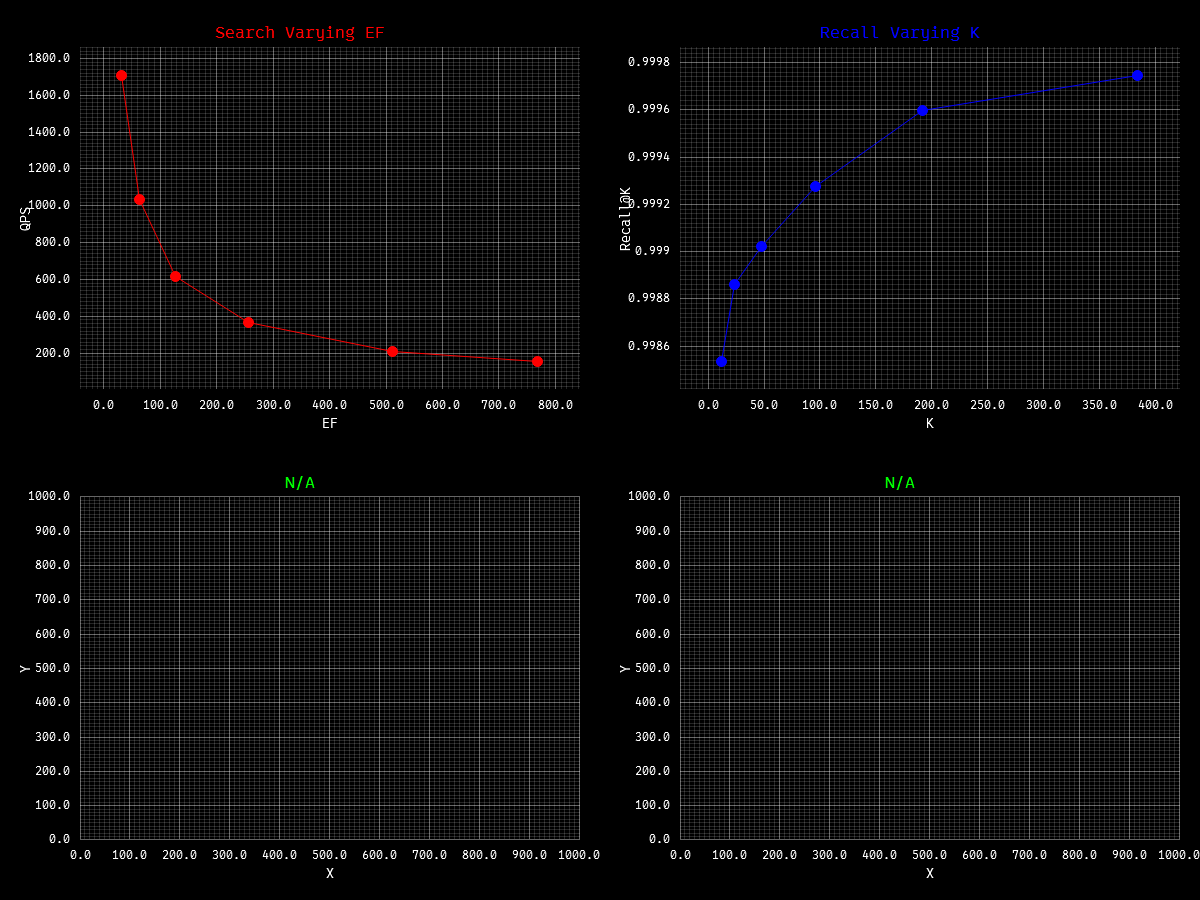
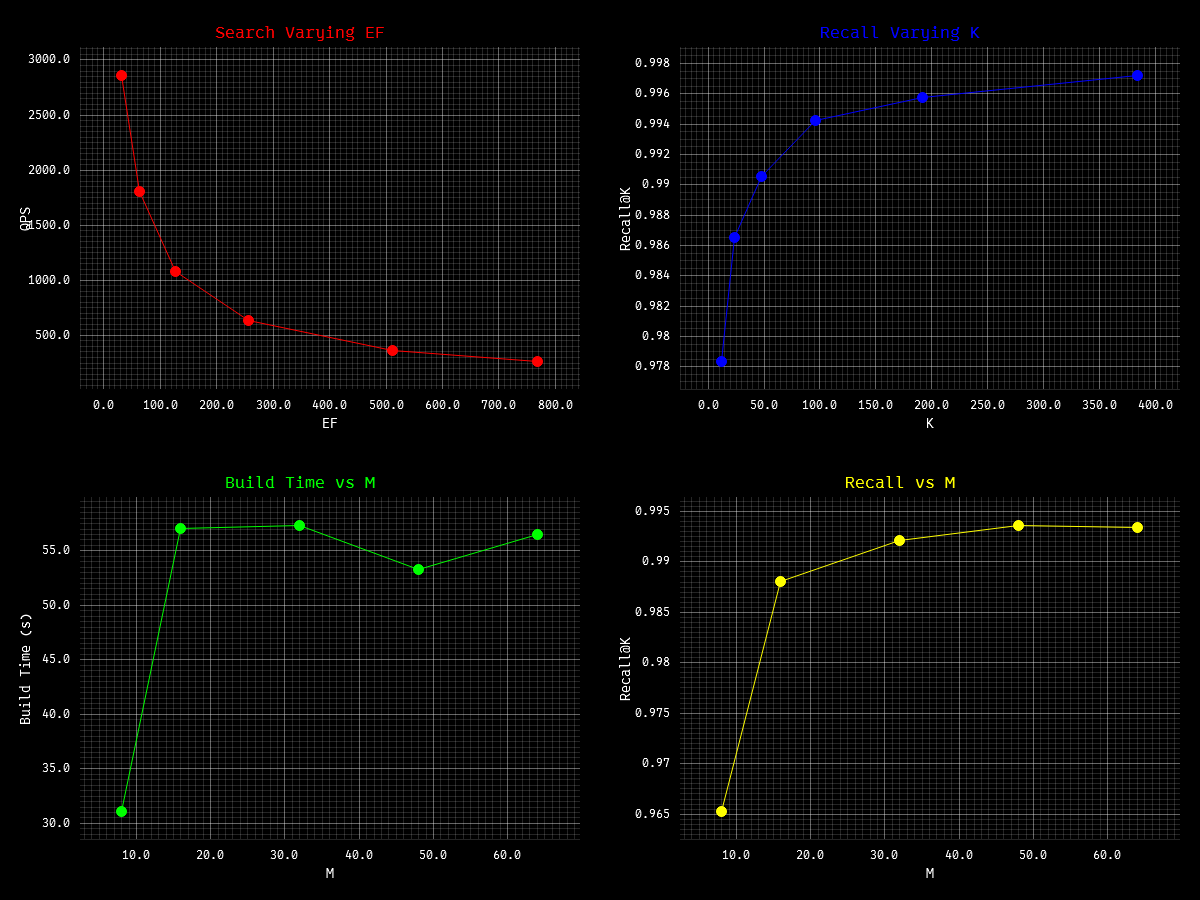
feat: added two bench, fix ci & toml

Changed region(s): [[0.0, 0.5289, 1.0, 0.9644], [0.0308, 0.0311, 0.4933, 0.4356], [0.5242, 0.0622, 0.9867, 0.4356]]

diff --git a/bench/bench.rs b/bench/bench.rs
@@ -15,6 +15,8 @@ const INDEX_CACHE: &str = "./bench/bench_index.bin";
 enum BenchMetrics {
     QRSVaryingEF,
     RecallVaryingK,
+    BuildTimeVaryingM,
+    RecallVaryingM,
 }
 
 struct BenchmarkResult {
@@ -133,6 +135,47 @@ fn main() -> Result<()> {
                 x_y: results.clone(),
             });
         }
+
+        // Build time and recall varying M
+        {
+            let sample_count = 65536;
+            let m_values = vec![8, 16, 32, 48, 64];
+            let mut build_results = Vec::new();
+            let mut recall_results = Vec::new();
+            let recall_sample = 1024;
+            let k = 32;
+            let ef = 128;
+            let mut rng2 = fastrand::Rng::new();
+            let queries_idx_m: Vec<_> = (0..recall_sample)
+                .map(|_| rng2.usize(0..sample_count))
+                .collect();
+
+            for &m in &m_values {
+                let (hnsw, elapsed) = build_index_with_m(m, sample_count, dim, &mut mmap);
+                println!("Build with M={}, time: {:?}", m, elapsed);
+                build_results.push((m as f64, elapsed.as_secs_f64()));
+
+                let mut total_recall = 0.0f32;
+                for &query_idx in &queries_idx_m {
+                    let query_vec = get_vector(&mut mmap, query_idx, dim);
+                    let hnsw_search = hnsw.search(query_vec, k, Some(ef));
+                    let brute_search = hnsw.brute_search(query_vec, k);
+                    total_recall += compare_recall_at_k(&hnsw_search, &brute_search, k);
+                }
+                let avg_recall = total_recall / recall_sample as f32;
+                println!("Recall@{} with M={}: {:.4}", k, m, avg_recall);
+                recall_results.push((m as f64, avg_recall as f64));
+            }
+
+            bench_results.push(BenchmarkResult {
+                metrics: BenchMetrics::BuildTimeVaryingM,
+                x_y: build_results,
+            });
+            bench_results.push(BenchmarkResult {
+                metrics: BenchMetrics::RecallVaryingM,
+                x_y: recall_results,
+            });
+        }
     }
 
     plot_bench(bench_results, PathBuf::from("./bench/plot.png"))?;
@@ -227,7 +270,7 @@ fn write_compact_datasets(input: PathBuf, num_files: usize) -> Result<()> {
     Ok(())
 }
 
-#[inline]
+#[inline(always)]
 /// Calculate Recall@K - what fraction of HNSW results are in the true top-k (brute force)
 fn compare_recall_at_k(
     hnsw_results: &[(NodeUUID, f32)],
@@ -271,14 +314,41 @@ fn load_vectors_mmap(path: PathBuf) -> (usize, usize, MmapMut) {
     (num_vectors, dim, mmap)
 }
 
+fn build_index_with_m(
+    m: usize,
+    num_vectors: usize,
+    dim: usize,
+    mmap: &mut MmapMut,
+) -> (HNSW, std::time::Duration) {
+    let mut hnsw = HNSW::new(
+        m,
+        96,
+        18,
+        1.0 / (m as f32).ln(),
+        Some(Metrics::Cosine),
+        num_vectors,
+        true,
+    );
+
+    let time = Instant::now();
+    for i in 0..num_vectors {
+        let vec = get_vector(mmap, i, dim);
+        let level = hnsw.get_random_level();
+        let mut id = [0u8; 32];
+        fastrand::fill(&mut id);
+        hnsw.insert(id, vec, vec![], level).ok();
+    }
+    (hnsw, time.elapsed())
+}
+
 fn cache_index(num_vectors: usize, dim: usize, mmap: &mut MmapMut) -> HNSW {
     println!("Building index with {} vectors...", num_vectors);
 
     let mut hnsw = HNSW::new(
-        32,
-        256,
+        16,
+        96,
         18,
-        1.0 / 32.0_f32.ln(),
+        1.0 / 16.0_f32.ln(),
         Some(Metrics::Cosine),
         num_vectors,
         true,
@@ -321,6 +391,10 @@ fn plot_bench(benchmark_results: Vec<BenchmarkResult>, output: PathBuf) -> Resul
             Some(BenchmarkResult { metrics, .. }) => match metrics {
                 BenchMetrics::QRSVaryingEF => ("EF", "QPS", RED, "Search Varying EF"),
                 BenchMetrics::RecallVaryingK => ("K", "Recall@K", BLUE, "Recall Varying K"),
+                BenchMetrics::BuildTimeVaryingM => {
+                    ("M", "Build Time (s)", GREEN, "Build Time vs M")
+                }
+                BenchMetrics::RecallVaryingM => ("M", "Recall@K", YELLOW, "Recall vs M"),
             },
             None => ("X", "Y", GREEN, "N/A"),
         };

diff --git a/src/hnsw.rs b/src/hnsw.rs
@@ -125,7 +125,7 @@ pub const DEFAULT_EF_INC_FACTOR: f32 = 1.572;
 ///
 /// Algorithm highlights:
 /// **Insert**: Search from top layer down, connect at each layer bidirectionally
-/// **Search**: Greedy descent through upper layers, bounded search at bottom layer
+/// **Search**: Greedy descent through upper layers, bounded knn-search at bottom layer
 /// **Pruning**: Keep only M closest neighbors per node per layer
 /// **Tombstones**: Mark deleted nodes and skip during search, periodic cleanup & reindexing
 ///
@@ -148,7 +148,7 @@ pub const DEFAULT_EF_INC_FACTOR: f32 = 1.572;
 ///        let mut id = [0u8; 32];
 ///        fastrand::fill(&mut id); // 256-bit random [u8; 32]
 ///        let level_asg = hnsw.get_random_level(); // compute mL from M
-///        let metadata = vec![]; // metadata can be anything (std vec)
+///        let metadata = vec![]; // metadata can be anything (std vec<u8>)
 ///        hnsw.insert(id, vector, metadata, level_asg).unwrap();
 ///    }
 ///
@@ -270,7 +270,7 @@ impl HNSW {
     #[inline(always)]
     fn get_vector_slice(&self, idx: NodeIndex) -> &[f32] {
         let start = idx * self.dim;
-        &self.flat_vectors[start..start + self.dim]
+        unsafe { self.flat_vectors.get_unchecked(start..start + self.dim) }
     }
 
     /// Generates a random level for a new node based on an exponential distribution uses the HNSW paper formula:
@@ -534,7 +534,7 @@ impl HNSW {
 
         let mut working: Vec<(NodeIndex, f32)> = candidates.to_vec();
 
-        // TODO; this is bit unclear
+        // TODO; this is bit unclear with paper
 
         // Optionally extend candidates with neighbors of candidates (paper Alg. 4 lines 3-7)
         if self.extend_candidates {
@@ -725,7 +725,7 @@ impl HNSW {
         // Sort by similarity descending (best first)
         neighbor_sims.sort_unstable_by(|a, b| b.1.total_cmp(&a.1));
 
-        // Apply the paper's heuristic (Algorithm 4) for diversity-aware selection
+        // do it again here since selection is based on pruned sims, not original sims
         let new_neighbors = self.select_neighbors_heuristic(node_id, &neighbor_sims, max_n, layer);
         let new_neighbors_set: HashSet<NodeIndex> = new_neighbors.iter().copied().collect();
 
@@ -746,7 +746,7 @@ impl HNSW {
     }
 
     /// Returns the max number of neighbors for a given layer.
-    /// Layer 0 uses M0 = 2*M per the HNSW paper (Section 4.1).
+    /// Layer 0 uses M0 = 2*M per the paper (Section 4.1).
     #[inline(always)]
     fn max_neighbors_for_layer(&self, layer: usize) -> usize {
         if layer == 0 {
@@ -773,7 +773,7 @@ impl HNSW {
     /// (this is done in `insert`, `search_kernel`, and `brute_search*`).
     /// When that's true, cosine similarity reduces to a raw dot product (~3x faster than the
     /// `cosine_similarity` SIMD path that recomputes the norms).
-    #[inline]
+    #[inline(always)]
     fn similarity(&self, a: &[f32], b: &[f32], metrics: &Metrics) -> f32 {
         unsafe {
             match metrics {
@@ -1136,38 +1136,49 @@ impl HNSW {
         }
     }
 
-    // TODO; complete this
+    // TODO; imp/complete this
     /// Debug method to print summary of the graph, including entry point info and layer distribution, quality
     /// Optionally takes a NodeUUID for deep recursively insight.
     pub fn debug(&self, _uuid: Option<&[u8; 32]>) {
-        println!("Total nodes: {}", self.nodes.len());
+        println!("Layer distribution:");
+        for layer in 0..=self.max_layers {
+            let count = self.get_nodes_at_level(layer).len();
+            if count > 0 {
+                println!(
+                    "-L{}: {} nodes ({}%)",
+                    layer,
+                    count,
+                    if self.nodes.is_empty() {
+                        0.0
+                    } else {
+                        (count as f32 / self.nodes.len() as f32) * 100.0
+                    }
+                );
+            }
+        }
+        println!();
+
         if let Some(ep_idx) = self.entry_point
             && let Some(ep) = self.nodes.get(ep_idx)
         {
             println!(
-                "Entry point UUID/Index: {}/{} (max_level {})",
-                hex::encode(ep.uuid),
+                "Entry point: uuid={} idx={} max_level={}",
+                &hex::encode(ep.uuid),
                 ep_idx,
                 ep.max_level
             );
+            for (level, neighbour) in ep.neighbors.iter().enumerate() {
+                println!(
+                    "-L{} count={} neightbour_idx={:?}",
+                    level,
+                    neighbour.len(),
+                    neighbour
+                );
+            }
         } else {
             println!("No entry point");
         }
-
-        println!("Layer distribution:");
-        for layer in 0..=self.max_layers {
-            let count = self.get_nodes_at_level(layer).len();
-            println!(
-                "-L{}: {} nodes ({:.4}%)",
-                layer,
-                count,
-                if !self.nodes.is_empty() {
-                    (count as f32 / self.nodes.len() as f32) * 100.0
-                } else {
-                    0.0
-                }
-            );
-        }
+        println!();
     }
 }
 

diff --git a/src/lib.rs b/src/lib.rs
@@ -7,14 +7,14 @@
 //! ```rust
 //! use hnsw_rs::hnsw::*;
 //! fn main() {
-//!     let hnsw = HNSW::default();
+//!     let mut hnsw = HNSW::default();
 //!
 //!     // fill with rand 1024 vec, 3 dim for testing
 //!     hnsw.fast_fill(1024, 3).unwrap();
 //!
 //!     // perform search for 10 nearest neighbors
-//!     let query = vec![0.5, 0.5, 0.5];
-//!     let results = hnsw.search(&query, 10, None);
+//!     let mut query = vec![0.5, 0.5, 0.5];
+//!     let results = hnsw.search(&mut query, 10, None);
 //!     println!("Top 10 results: {:#?}", results);
 //!     assert_eq!(results.len(), 10);
 //! }
@@ -68,7 +68,12 @@ fn lib_hnsw_test() {
     println!("Inserted: 3072");
     hnsw.fast_fill(1024, 128).unwrap();
     println!("Inserted: 4096");
-    assert_eq!(hnsw.size(), 4096);
+    hnsw.fast_fill(1024, 128).unwrap();
+    println!("Inserted: 5120");
+    hnsw.fast_fill(1024, 128).unwrap();
+    println!("Inserted: 6144");
+    assert_eq!(hnsw.size(), 6144);
     println!("Mem-size: {} bytes", hnsw.mem_size());
-    hnsw.debug(None);
+    let node = hnsw.get_node_by_index(1024).unwrap().uuid;
+    hnsw.debug(Some(&node));
 }

diff --git a/README.md b/README.md
@@ -15,24 +15,36 @@ cargo run --bench bench  -- ../../datasets/dim1536_size1M 4
 ```
 
 ```shell
-# config; max_n: 32, ef_const: 256, max_l: 32, metrics: cosine
-Total vectors: 153848 dimension: 1536
+# config; max_n: 16, ef_const: 96, max_l: 18, metrics: cosine
+Total vectors: 153848, dimension: 1536
 Building index with 153848 vectors...
-Index built in 540.5682286s and cached to disk.
+Index built in 192.7884992s and cached to disk.
 
-Search with ef: 32 took, QPS: 1706.59
-Search with ef: 64 took, QPS: 1032.82
-Search with ef: 128 took, QPS: 616.87
-Search with ef: 256 took, QPS: 364.37
-Search with ef: 512 took, QPS: 210.39
-Search with ef: 768 took, QPS: 155.18
+Search with ef: 32 took, QPS: 2858.56
+Search with ef: 64 took, QPS: 1806.46
+Search with ef: 128 took, QPS: 1082.76
+Search with ef: 256 took, QPS: 636.78
+Search with ef: 512 took, QPS: 367.97
+Search with ef: 768 took, QPS: 264.41
 
-Recall@12: 0.9985, Time: 32.774128
-Recall@24: 0.9989, Time: 33.136284
-Recall@48: 0.9990, Time: 35.135895
-Recall@96: 0.9993, Time: 36.384808
-Recall@192: 0.9996, Time: 38.89311
-Recall@384: 0.9997, Time: 42.66928
+Recall@12: 0.9784, Time: 33.53304
+Recall@24: 0.9865, Time: 33.891148
+Recall@48: 0.9905, Time: 34.027683
+Recall@96: 0.9942, Time: 35.76142
+Recall@192: 0.9957, Time: 36.853363
+Recall@384: 0.9972, Time: 39.917393
+
+# same config varyingM, sample_size: 65536
+Build with M=8, time: 31.1000744s
+Recall@32 with M=8: 0.9653
+Build with M=16, time: 57.0895427s
+Recall@32 with M=16: 0.9881
+Build with M=32, time: 57.315268s
+Recall@32 with M=32: 0.9921
+Build with M=48, time: 53.3230103s
+Recall@32 with M=48: 0.9936
+Build with M=64, time: 56.4618391s
+Recall@32 with M=64: 0.9934
 ```
 
 ![Bench plot](bench/plot.png)